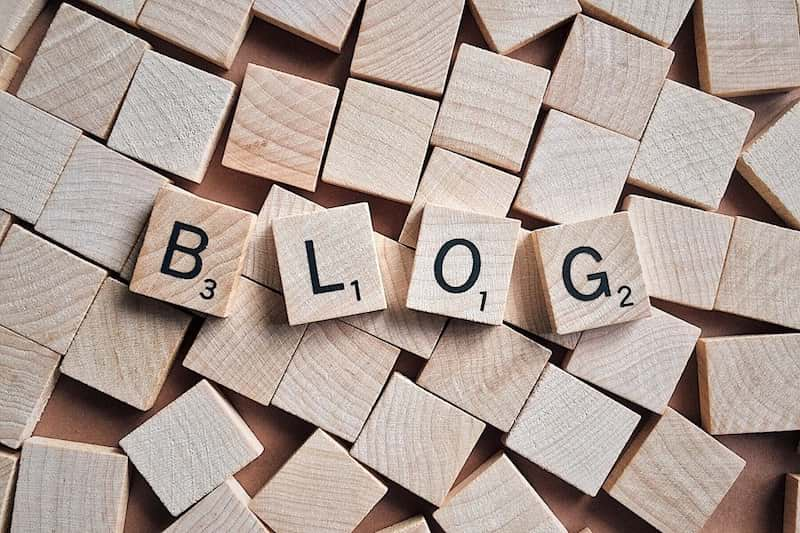
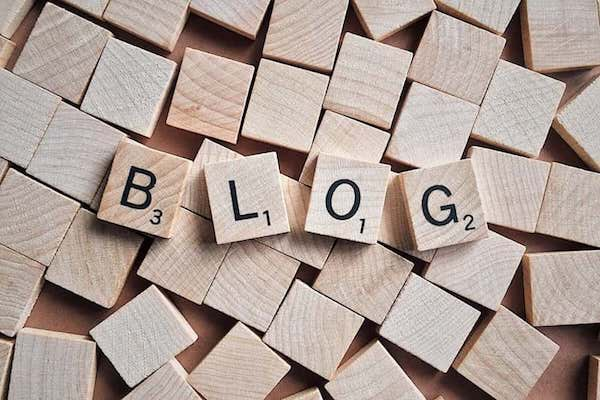
Make main image responsive and provide different versions for mobile and desktop

diff --git a/_layouts/home.html b/_layouts/home.html
@@ -9,7 +9,12 @@ layout: default
 
         <div class="image-block">
             <a href="{{site.baseurl}}{{post.url}}" title="Open {{post.title}}">
-                <img src="{{site.baseurl}}/assets/img/{{ post.date | date: "%Y-%m-%d"}}/main.jpg" alt="placeholder-img">
+                <picture>
+                    <source media="(max-width: 767px)" srcset="{{site.baseurl}}/assets/img/{{ post.date | date: "%Y-%m-%d"}}/main_300.jpg">
+                    <source media="(max-width: 991px)" srcset="{{site.baseurl}}/assets/img/{{ post.date | date: "%Y-%m-%d"}}/main_400.jpg">
+                    <source media="(max-width: 1199px)" srcset="{{site.baseurl}}/assets/img/{{ post.date | date: "%Y-%m-%d"}}/main_500.jpg">
+                    <img src="{{site.baseurl}}/assets/img/{{ post.date | date: "%Y-%m-%d"}}/main.jpg" alt="Main Blog Post Image">
+                </picture>
             </a>
         </div>
         <div class="text-block">

diff --git a/_includes/main-post-image.html b/_includes/main-post-image.html
@@ -1,0 +1,6 @@
+<picture>
+    <source media="(max-width: 767px)" srcset="{{site.baseurl}}/assets/img/{{ page.date | date: "%Y-%m-%d"}}/main_300.jpg">
+    <source media="(max-width: 991px)" srcset="{{site.baseurl}}/assets/img/{{ page.date | date: "%Y-%m-%d"}}/main_400.jpg">
+    <source media="(max-width: 1199px)" srcset="{{site.baseurl}}/assets/img/{{ page.date | date: "%Y-%m-%d"}}/main_500.jpg">
+    <img src="{{site.baseurl}}/assets/img/{{ page.date | date: "%Y-%m-%d"}}/main.jpg" alt="Main Blog Post Image">
+</picture>

diff --git a/_layouts/post.html b/_layouts/post.html
@@ -11,7 +11,7 @@ layout: default
         {% endif %}
     </div>
     <div>
-        <img src="{{site.baseurl}}/assets/img/{{ page.date | date: "%Y-%m-%d"}}/main.jpg" alt="Main Blog Post Image">
+        {% include main-post-image.html %}
     </div>
 
     {{ content }}
